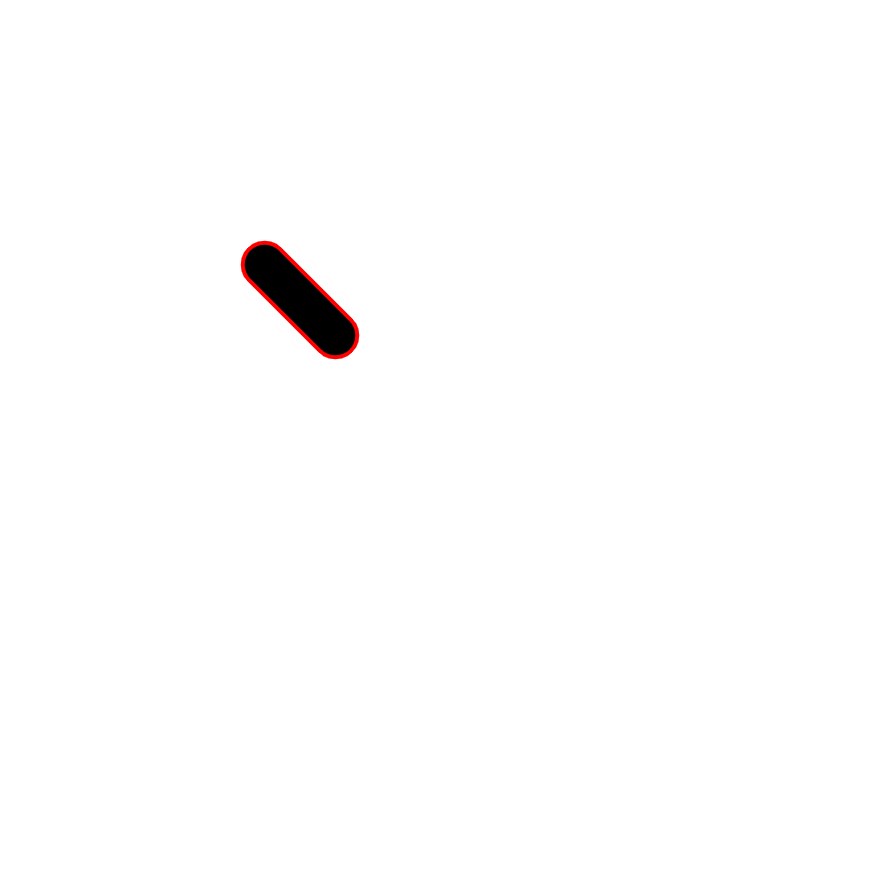
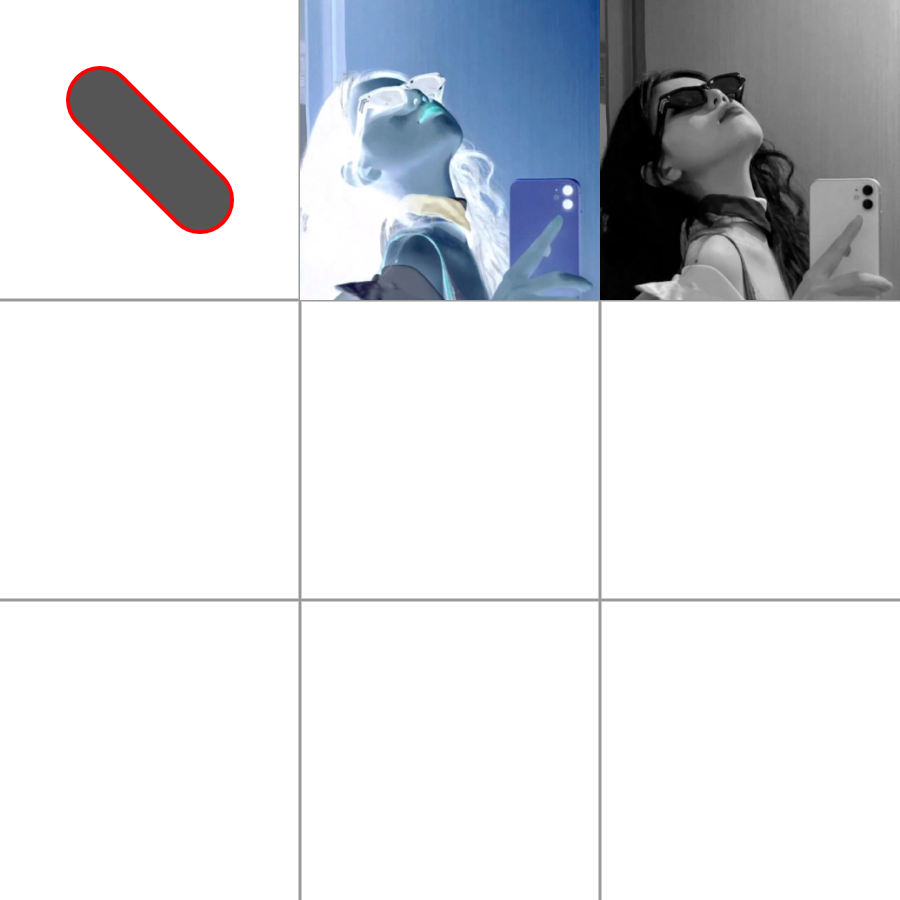
.

Changed region(s): [[0.0, 0.0, 1.0, 1.0], [0.0605, 0.0605, 0.2721, 0.2721], [0.3326, 0.2419, 0.3628, 0.2721]]

diff --git a/src/index.ts b/src/index.ts
@@ -4,8 +4,8 @@ import { Maths } from 'https://cdn.jsdelivr.net/npm/@3r/tool@1.3.2/index.js'
 /**
  * Draw a capsule 
  */
-export function drawCapsule(this: any, x1: number, y1: number, x2: number, y2: number, radius: number): void {
-	// 永远保持正方向
+export function drawCapsule(this: CanvasRenderingContext2D, x1: number, y1: number, x2: number, y2: number, radius: number): void {
+	// Always maintain a positive direction
 	const dr = y1 == y2 && x1 > x2 ? -1 : 1
 	const p1 = v2(x1, y1)
 	const p2 = v2(x2, y2)
@@ -20,15 +20,74 @@ export function drawCapsule(this: any, x1: number, y1: number, x2: number, y2: n
 	this.stroke()
 	this.fill()
 }
+/**
+ * Invert image color
+ */
+export function inverseColor(this: CanvasRenderingContext2D, x?: number, y?: number, w?: number, h?: number) {
+	x ??= 0
+	y ??= 0
+	w ??= this.canvas.width
+	h ??= this.canvas.height
+	const imageData = this.getImageData(x, y, w, h)
+	for (let x = 0; x < imageData.width; x++) {
+		for (let y = 0; y < imageData.height; y++) {
+			const idx = (x + y * imageData.width) * 4
+			imageData.data[idx + 0] = 255 - imageData.data[idx + 0]
+			imageData.data[idx + 1] = 255 - imageData.data[idx + 1]
+			imageData.data[idx + 2] = 255 - imageData.data[idx + 2]
+			imageData.data[idx + 3] = 255
+		}
+	}
+	this.putImageData(imageData, x, y)
+}
+
+
+/**
+ * Image grayscale processing
+ */
+export function grayProcessing(this: CanvasRenderingContext2D, x?: number, y?: number, w?: number, h?: number) {
+	x ??= 0
+	y ??= 0
+	w ??= this.canvas.width
+	h ??= this.canvas.height
+	const imageData = this.getImageData(x, y, w, h)
+	for (let x = 0; x < imageData.width; x++) {
+		for (let y = 0; y < imageData.height; y++) {
+			const idx = (x + y * imageData.width) * 4
+			const r = imageData.data[idx + 0]
+			const g = imageData.data[idx + 1]
+			const b = imageData.data[idx + 2]
+			const gray = .299 * r + .587 * g + .114 * b
+			imageData.data[idx + 0] = gray
+			imageData.data[idx + 1] = gray
+			imageData.data[idx + 2] = gray
+			imageData.data[idx + 3] = 255
+		}
+	}
+	this.putImageData(imageData, x, y)
+}
+
+
 
 CanvasRenderingContext2D.prototype['drawCapsule'] = drawCapsule
+CanvasRenderingContext2D.prototype['inverseColor'] = inverseColor
+CanvasRenderingContext2D.prototype['grayProcessing'] = grayProcessing
 
 declare global {
 	interface CanvasRenderingContext2D {
 		/**
 		 * Draw a capsule 
 		 */
-		drawCapsule(this: any, x1: number, y1: number, x2: number, y2: number, radius: number): void
+		drawCapsule(this: CanvasRenderingContext2D, x1: number, y1: number, x2: number, y2: number, radius: number): void
+
+		/**
+		 * Invert image color
+		 */
+		inverseColor(this: CanvasRenderingContext2D, x?: number, y?: number, w?: number, h?: number): void
+		/**
+		 * Image grayscale processing
+		 */
+		grayProcessing(this: CanvasRenderingContext2D, x?: number, y?: number, w?: number, h?: number): void
 	}
 }
 

diff --git a/index.js b/index.js
@@ -4,7 +4,7 @@ import { Maths } from 'https://cdn.jsdelivr.net/npm/@3r/tool@1.3.2/index.js';
  * Draw a capsule
  */
 export function drawCapsule(x1, y1, x2, y2, radius) {
-    // 永远保持正方向
+    // Always maintain a positive direction
     const dr = y1 == y2 && x1 > x2 ? -1 : 1;
     const p1 = v2(x1, y1);
     const p2 = v2(x2, y2);
@@ -19,4 +19,50 @@ export function drawCapsule(x1, y1, x2, y2, radius) {
     this.stroke();
     this.fill();
 }
+/**
+ * Invert image color
+ */
+export function inverseColor(x, y, w, h) {
+    x !== null && x !== void 0 ? x : (x = 0);
+    y !== null && y !== void 0 ? y : (y = 0);
+    w !== null && w !== void 0 ? w : (w = this.canvas.width);
+    h !== null && h !== void 0 ? h : (h = this.canvas.height);
+    const imageData = this.getImageData(x, y, w, h);
+    for (let x = 0; x < imageData.width; x++) {
+        for (let y = 0; y < imageData.height; y++) {
+            const idx = (x + y * imageData.width) * 4;
+            imageData.data[idx + 0] = 255 - imageData.data[idx + 0];
+            imageData.data[idx + 1] = 255 - imageData.data[idx + 1];
+            imageData.data[idx + 2] = 255 - imageData.data[idx + 2];
+            imageData.data[idx + 3] = 255;
+        }
+    }
+    this.putImageData(imageData, x, y);
+}
+/**
+ * Image grayscale processing
+ */
+export function grayProcessing(x, y, w, h) {
+    x !== null && x !== void 0 ? x : (x = 0);
+    y !== null && y !== void 0 ? y : (y = 0);
+    w !== null && w !== void 0 ? w : (w = this.canvas.width);
+    h !== null && h !== void 0 ? h : (h = this.canvas.height);
+    const imageData = this.getImageData(x, y, w, h);
+    for (let x = 0; x < imageData.width; x++) {
+        for (let y = 0; y < imageData.height; y++) {
+            const idx = (x + y * imageData.width) * 4;
+            const r = imageData.data[idx + 0];
+            const g = imageData.data[idx + 1];
+            const b = imageData.data[idx + 2];
+            const gray = .299 * r + .587 * g + .114 * b;
+            imageData.data[idx + 0] = gray;
+            imageData.data[idx + 1] = gray;
+            imageData.data[idx + 2] = gray;
+            imageData.data[idx + 3] = 255;
+        }
+    }
+    this.putImageData(imageData, x, y);
+}
 CanvasRenderingContext2D.prototype['drawCapsule'] = drawCapsule;
+CanvasRenderingContext2D.prototype['inverseColor'] = inverseColor;
+CanvasRenderingContext2D.prototype['grayProcessing'] = grayProcessing;

diff --git a/demo/index.html b/demo/index.html
@@ -6,9 +6,8 @@
     <meta name="viewport" content="width=device-width, initial-scale=1.0">
     <style>
         #drawCapsule {
-            width: 100vmin;
-            height: 100vmin;
-            background-color: #000;
+            width: 900px;
+            height: 900px;
             display: flex;
         }
     </style>
@@ -27,12 +26,41 @@
         canvas.width = width;
         canvas.height = height;
 
-        ctx.strokeStyle = '#f00'
-        ctx.lineWidth = 8;
         ctx.clearRect(0, 0, width, height)
 
-        ctx.drawCapsule(100, 100, 200, 200, 30)  
-        
+        // Draw Gird
+        ctx.strokeStyle = '#999'
+        ctx.lineWidth = 3;
+        ctx.beginPath();
+        for (let i = 0; i < 2; i++) {
+            ctx.moveTo(300 * (i + 1), 0)
+            ctx.lineTo(300 * (i + 1), height)
+        }
+        for (let i = 0; i < 2; i++) {
+            ctx.moveTo(0, 300 * (i + 1))
+            ctx.lineTo(width, 300 * (i + 1))
+        }
+        ctx.closePath();
+        ctx.stroke();
+
+        // Draw a capsule 
+        ctx.strokeStyle = '#f00'
+        ctx.fillStyle = "#555"
+        ctx.lineWidth = 8;
+        ctx.drawCapsule(100, 100, 200, 200, 30)
+
+
+        const imageUrl = 'https://pic4.zhimg.com/80/v2-3e398c920e60082e366c05a52b38c913_720w.webp'
+        const image = new Image()
+        image.src = imageUrl
+        image.setAttribute('crossOrigin', '');
+        image.onload = () => {
+            ctx.drawImage(image, 300, 0, 300, 300)
+            ctx.inverseColor(300, 0, 300, 300)
+            
+            ctx.drawImage(image, 600, 0, 300, 300)
+            ctx.grayProcessing(600, 0, 300, 300)
+        }
     </script>
 </body>
 

diff --git a/index.d.ts b/index.d.ts
@@ -1,12 +1,28 @@
 /**
  * Draw a capsule
  */
-export declare function drawCapsule(this: any, x1: number, y1: number, x2: number, y2: number, radius: number): void;
+export declare function drawCapsule(this: CanvasRenderingContext2D, x1: number, y1: number, x2: number, y2: number, radius: number): void;
+/**
+ * Invert image color
+ */
+export declare function inverseColor(this: CanvasRenderingContext2D, x?: number, y?: number, w?: number, h?: number): void;
+/**
+ * Image grayscale processing
+ */
+export declare function grayProcessing(this: CanvasRenderingContext2D, x?: number, y?: number, w?: number, h?: number): void;
 declare global {
     interface CanvasRenderingContext2D {
         /**
          * Draw a capsule
          */
-        drawCapsule(this: any, x1: number, y1: number, x2: number, y2: number, radius: number): void;
+        drawCapsule(this: CanvasRenderingContext2D, x1: number, y1: number, x2: number, y2: number, radius: number): void;
+        /**
+         * Invert image color
+         */
+        inverseColor(this: CanvasRenderingContext2D, x?: number, y?: number, w?: number, h?: number): void;
+        /**
+         * Image grayscale processing
+         */
+        grayProcessing(this: CanvasRenderingContext2D, x?: number, y?: number, w?: number, h?: number): void;
     }
 }

diff --git a/README.md b/README.md
@@ -21,9 +21,8 @@ HTML 5
     <meta name="viewport" content="width=device-width, initial-scale=1.0">
     <style>
         #drawCapsule {
-            width: 100vmin;
-            height: 100vmin;
-            background-color: #000;
+            width: 900px;
+            height: 900px;
             display: flex;
         }
     </style>
@@ -33,7 +32,7 @@ HTML 5
 
     <canvas id="drawCapsule"></canvas>
     <script type="module">
-        import "https://cdn.jsdelivr.net/npm/@3r/canvas-plus@0.0.9/index.js"
+        import "../index.js"
         /** @type {HTMLCanvasElement} */
         let canvas = document.querySelector("#drawCapsule")
         let ctx = canvas.getContext('2d')
@@ -42,12 +41,41 @@ HTML 5
         canvas.width = width;
         canvas.height = height;
 
-        ctx.strokeStyle = '#f00'
-        ctx.lineWidth = 8;
-
         ctx.clearRect(0, 0, width, height)
-        
-        ctx.drawCapsule(100, 100, 500, 500, 50)  
+
+        // Draw Gird
+        ctx.strokeStyle = '#999'
+        ctx.lineWidth = 3;
+        ctx.beginPath();
+        for (let i = 0; i < 2; i++) {
+            ctx.moveTo(300 * (i + 1), 0)
+            ctx.lineTo(300 * (i + 1), height)
+        }
+        for (let i = 0; i < 2; i++) {
+            ctx.moveTo(0, 300 * (i + 1))
+            ctx.lineTo(width, 300 * (i + 1))
+        }
+        ctx.closePath();
+        ctx.stroke();
+
+        // Draw a capsule 
+        ctx.strokeStyle = '#f00'
+        ctx.fillStyle = "#555"
+        ctx.lineWidth = 8;
+        ctx.drawCapsule(100, 100, 200, 200, 30)
+
+
+        const imageUrl = 'https://pic4.zhimg.com/80/v2-3e398c920e60082e366c05a52b38c913_720w.webp'
+        const image = new Image()
+        image.src = imageUrl
+        image.setAttribute('crossOrigin', '');
+        image.onload = () => {
+            ctx.drawImage(image, 300, 0, 300, 300)
+            ctx.inverseColor(300, 0, 300, 300)
+            
+            ctx.drawImage(image, 600, 0, 300, 300)
+            ctx.grayProcessing(600, 0, 300, 300)
+        }
     </script>
 </body>
 
